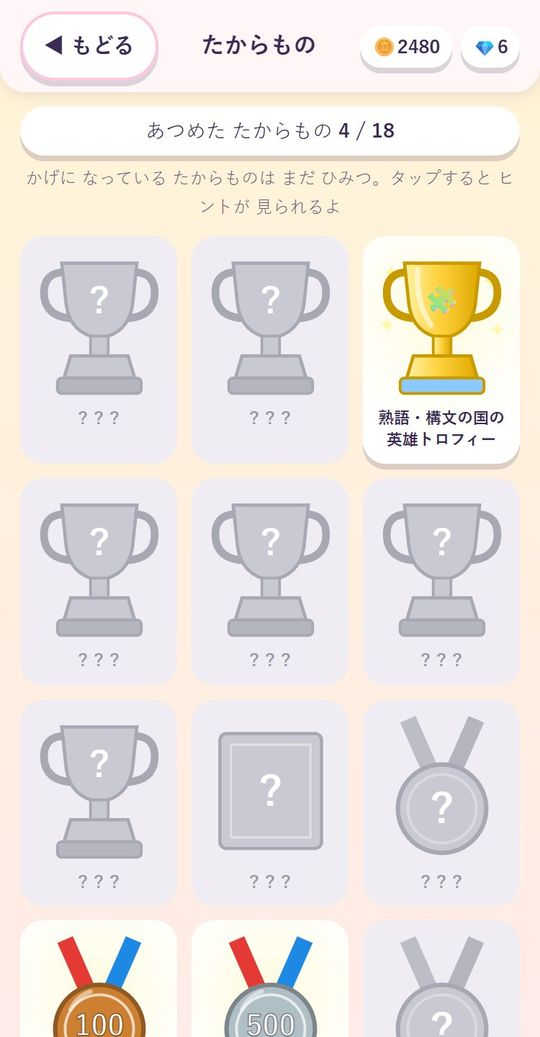
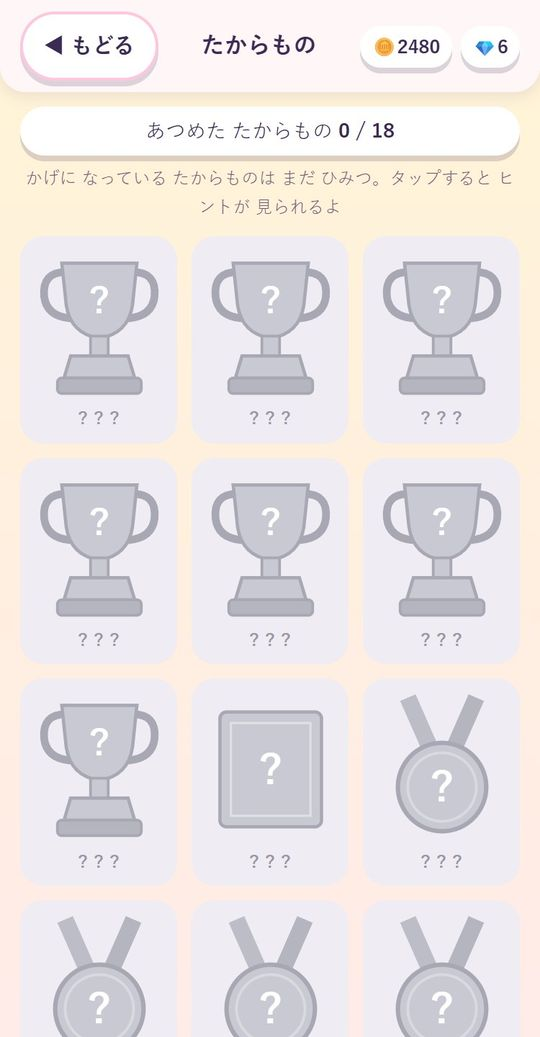
v4: スマホのロックから戻ったあとBGM・効果音・英語の音声が鳴らなくなるのを修正（ぷにまるv30と同じ）・説明書のたからもの詳細を非公開に・デバッグの音を最初からオンに

diff --git a/manual/_src/eigoquest-manual.html b/manual/_src/eigoquest-manual.html
@@ -230,7 +230,7 @@ footer { margin-top: 48px; text-align: center; color: var(--ink-soft); font-size
           <li><span class="n y">9</span><span><b>ずかん</b>：あつめた カード・そざい。</span></li>
           <li><span class="n y">10</span><span><b>ミッション</b>：まいにちの おだい。</span></li>
           <li><span class="n y">11</span><span><b>セーブ</b>：きろくを のこす（ふだんは じどうで セーブされるよ）。</span></li>
-          <li><span class="n y">12</span><span><b>🏆 たからもの</b>（いちばん下の 金色の ボタン）：あつめた トロフィーや メダルを 見る。</span></li>
+          <li><span class="n y">12</span><span><b>🏆 たからもの</b>（いちばん下の 金色の ボタン）：あつめた たからものを 見る。</span></li>
         </ol>
         <div class="tip">どの 画面でも、左上の <span class="tap">◀ もどる</span> で 1つ まえに もどれるよ。画面を 下に スクロールしても、もどるボタンは ずっと 上に あるよ。</div>
       </div>
@@ -581,35 +581,23 @@ footer { margin-top: 48px; text-align: center; color: var(--ink-soft); font-size
 
   <!-- ===== 12 たからもの ===== -->
   <section class="chapter" id="takara">
-    <div class="chead"><span class="no">12</span><div><h2>たからもの</h2><p>がんばった きねんの トロフィー・メダル・表彰状</p></div></div>
-    <div class="gallery">
-      <div class="g">
-        <div class="phone"><img src="img/36_treasures.jpg" alt="たからものの 一覧。まだの ものは 灰色の かげに なっている" width="750" height="1440" loading="lazy"></div>
-        <h4>たからものの へや</h4>
-        <p>ホームの <span class="tap">🏆 たからもの</span> で 見られるよ。まだ もらっていない ものは <b>灰色の かげ</b>。タップすると ヒントが 出るよ。</p>
+    <div class="chead"><span class="no">12</span><div><h2>たからもの</h2><p>がんばった きねんの たからものが あるよ</p></div></div>
+    <div class="row">
+      <div class="shot">
+        <div class="phone"><img src="img/36_treasures.jpg" alt="たからものの へや。まだ もらっていない ものは 灰色の かげ" width="750" height="1440" loading="lazy"></div>
+        <p class="cap">たからものの へや</p>
       </div>
-      <div class="g">
-        <div class="phone"><img src="img/37_trophy.jpg" alt="もらった トロフィーを 大きく 見た ところ" width="750" height="1440" loading="lazy"></div>
-        <h4>大きく 見る</h4>
-        <p>もらった たからものを タップすると、大きな 絵と <b>もらった日</b> が 見られるよ。<span class="tap">◀ たからものに もどる</span> で もとの 画面へ。</p>
-      </div>
-      <div class="g">
-        <div class="phone"><img src="img/38_cert.jpg" alt="全世界の 英雄 表彰状" width="750" height="1440" loading="lazy"></div>
-        <h4>さいごの たからもの</h4>
-        <p>5つの 国を ぜんぶ すくって、しんの まおうを たおすと、<b>全世界の 英雄トロフィー</b>と <b>表彰状</b> が もらえるよ！</p>
+      <div class="txt">
+        <p>ホームの いちばん下の <span class="tap">🏆 たからもの</span> で 見られるよ。</p>
+        <p>ぼうけんで がんばると、ときどき たからものが もらえるよ。<b>なにを したら もらえるかは ひみつ！</b></p>
+        <ol class="legend">
+          <li><span class="n">1</span><span>まだ もらっていない ものは <b>灰色の かげ</b>。タップすると ちょっとだけ ヒントが 見られるよ。</span></li>
+          <li><span class="n">2</span><span>もらった たからものは 色が ついて かがやくよ。タップすると 大きく 見られて、<b>もらった日</b> も わかるよ。</span></li>
+          <li><span class="n">3</span><span><span class="tap">◀ たからものに もどる</span> で もとの 画面に もどれるよ。</span></li>
+        </ol>
+        <div class="tip star">ぜんぶ あつめられるかな？</div>
       </div>
     </div>
-    <div class="tbl" style="margin-top:22px"><table>
-      <tr><th>たからもの</th><th>もらえる とき</th></tr>
-      <tr><td>🏆 ○○の国の 英雄トロフィー（5こ）</td><td>その 国の 章を ぜんぶ クリア</td></tr>
-      <tr><td>🏆 まおう たいじ トロフィー</td><td>まおうを たおす</td></tr>
-      <tr><td>🏆 全世界の 英雄トロフィー・📜 表彰状</td><td>5つの 国を ぜんぶ クリアして、しんの まおうを たおす</td></tr>
-      <tr><td>🏅 正解 メダル（100・500・1000・3000問）</td><td>問題に ぜんぶで その数 正解</td></tr>
-      <tr><td>🏅 スペル名人 メダル</td><td>スペル道場を ぜんぶ クリア</td></tr>
-      <tr><td>🏅 キラカード 100まい メダル</td><td>★5の カードを 100まい</td></tr>
-      <tr><td>🏅 なかま 20しゅるい メダル／🏆 コンプリート トロフィー</td><td>なかまずかんを 20しゅるい／ぜんぶ</td></tr>
-      <tr><td>🏅 7日・30日 れんぞく メダル</td><td>まいにち つづけて あそぶ</td></tr>
-    </table></div>
   </section>
 
   <!-- ===== 13 せってい ===== -->
@@ -718,7 +706,7 @@ footer { margin-top: 48px; text-align: center; color: var(--ink-soft); font-size
       </div>
       <div class="pc">
         <h3>🏆 たからもの（記念）</h3>
-        <p>国ごとの全クリア（英雄トロフィー）、まおう討伐、全世界の英雄トロフィーと表彰状、正解数（100・500・1000・3000問）、スペル道場全クリア、キラカード100枚、なかま収集、連続ログイン（7日・30日）で記念品がもらえます。ホームの「🏆 たからもの」で、もらった日と一緒に見られます。</p>
+        <p>がんばりに応じて、記念のたからものがもらえます。ホームの「🏆 たからもの」で、もらった日と一緒に見られます。何をするともらえるかは、お子さんの楽しみのため説明書では伏せています。</p>
       </div>
       <div class="pc">
         <h3>⏱ 遊び方の目安</h3>

diff --git a/manual/kids.html b/manual/kids.html
@@ -252,7 +252,7 @@ section, header, nav.toc, .pc, .qa { scroll-margin-top: 84px; }
           <li><span class="n y">9</span><span><b>ずかん</b>：あつめた カード・そざい。</span></li>
           <li><span class="n y">10</span><span><b>ミッション</b>：まいにちの おだい。</span></li>
           <li><span class="n y">11</span><span><b>セーブ</b>：きろくを のこす（ふだんは じどうで セーブされるよ）。</span></li>
-          <li><span class="n y">12</span><span><b>🏆 たからもの</b>（いちばん下の 金色の ボタン）：あつめた トロフィーや メダルを 見る。</span></li>
+          <li><span class="n y">12</span><span><b>🏆 たからもの</b>（いちばん下の 金色の ボタン）：あつめた たからものを 見る。</span></li>
         </ol>
         <div class="tip">どの 画面でも、左上の <span class="tap">◀ もどる</span> で 1つ まえに もどれるよ。画面を 下に スクロールしても、もどるボタンは ずっと 上に あるよ。</div>
       </div>
@@ -603,35 +603,23 @@ section, header, nav.toc, .pc, .qa { scroll-margin-top: 84px; }
 
   <!-- ===== 12 たからもの ===== -->
   <section class="chapter" id="takara">
-    <div class="chead"><span class="no">12</span><div><h2>たからもの</h2><p>がんばった きねんの トロフィー・メダル・表彰状</p></div></div>
-    <div class="gallery">
-      <div class="g">
-        <div class="phone"><img src="img/36_treasures.jpg" alt="たからものの 一覧。まだの ものは 灰色の かげに なっている" width="750" height="1440" loading="lazy"></div>
-        <h4>たからものの へや</h4>
-        <p>ホームの <span class="tap">🏆 たからもの</span> で 見られるよ。まだ もらっていない ものは <b>灰色の かげ</b>。タップすると ヒントが 出るよ。</p>
+    <div class="chead"><span class="no">12</span><div><h2>たからもの</h2><p>がんばった きねんの たからものが あるよ</p></div></div>
+    <div class="row">
+      <div class="shot">
+        <div class="phone"><img src="img/36_treasures.jpg" alt="たからものの へや。まだ もらっていない ものは 灰色の かげ" width="750" height="1440" loading="lazy"></div>
+        <p class="cap">たからものの へや</p>
       </div>
-      <div class="g">
-        <div class="phone"><img src="img/37_trophy.jpg" alt="もらった トロフィーを 大きく 見た ところ" width="750" height="1440" loading="lazy"></div>
-        <h4>大きく 見る</h4>
-        <p>もらった たからものを タップすると、大きな 絵と <b>もらった日</b> が 見られるよ。<span class="tap">◀ たからものに もどる</span> で もとの 画面へ。</p>
-      </div>
-      <div class="g">
-        <div class="phone"><img src="img/38_cert.jpg" alt="全世界の 英雄 表彰状" width="750" height="1440" loading="lazy"></div>
-        <h4>さいごの たからもの</h4>
-        <p>5つの 国を ぜんぶ すくって、しんの まおうを たおすと、<b>全世界の 英雄トロフィー</b>と <b>表彰状</b> が もらえるよ！</p>
+      <div class="txt">
+        <p>ホームの いちばん下の <span class="tap">🏆 たからもの</span> で 見られるよ。</p>
+        <p>ぼうけんで がんばると、ときどき たからものが もらえるよ。<b>なにを したら もらえるかは ひみつ！</b></p>
+        <ol class="legend">
+          <li><span class="n">1</span><span>まだ もらっていない ものは <b>灰色の かげ</b>。タップすると ちょっとだけ ヒントが 見られるよ。</span></li>
+          <li><span class="n">2</span><span>もらった たからものは 色が ついて かがやくよ。タップすると 大きく 見られて、<b>もらった日</b> も わかるよ。</span></li>
+          <li><span class="n">3</span><span><span class="tap">◀ たからものに もどる</span> で もとの 画面に もどれるよ。</span></li>
+        </ol>
+        <div class="tip star">ぜんぶ あつめられるかな？</div>
       </div>
     </div>
-    <div class="tbl" style="margin-top:22px"><table>
-      <tr><th>たからもの</th><th>もらえる とき</th></tr>
-      <tr><td>🏆 ○○の国の 英雄トロフィー（5こ）</td><td>その 国の 章を ぜんぶ クリア</td></tr>
-      <tr><td>🏆 まおう たいじ トロフィー</td><td>まおうを たおす</td></tr>
-      <tr><td>🏆 全世界の 英雄トロフィー・📜 表彰状</td><td>5つの 国を ぜんぶ クリアして、しんの まおうを たおす</td></tr>
-      <tr><td>🏅 正解 メダル（100・500・1000・3000問）</td><td>問題に ぜんぶで その数 正解</td></tr>
-      <tr><td>🏅 スペル名人 メダル</td><td>スペル道場を ぜんぶ クリア</td></tr>
-      <tr><td>🏅 キラカード 100まい メダル</td><td>★5の カードを 100まい</td></tr>
-      <tr><td>🏅 なかま 20しゅるい メダル／🏆 コンプリート トロフィー</td><td>なかまずかんを 20しゅるい／ぜんぶ</td></tr>
-      <tr><td>🏅 7日・30日 れんぞく メダル</td><td>まいにち つづけて あそぶ</td></tr>
-    </table></div>
   </section>
 
   <!-- ===== 13 せってい ===== -->

diff --git a/music.js b/music.js
@@ -206,7 +206,7 @@ const BGM = (() => {
     if ((cur === name && src) || want === name) return;
     try {
       ctxReady();
-      if (AC.state === "suspended") AC.resume();
+      if (AC.state !== "running") AC.resume().catch(() => {});
       want = name;
       render(name).then((buf) => {
         if (want !== name || !enabled()) return;
@@ -244,13 +244,44 @@ const BGM = (() => {
     ctx: () => ctxReady(),
     // 英語を 流す あいだは BGMを 小さくする
     duck(on) { try { if (gain && AC) gain.gain.setTargetAtTime(on ? 0.12 : 0.8, AC.currentTime, 0.12); } catch (e) { /* 無視 */ } },
-    // 画面に もどったときに 再開
-    resume() { if (!enabled()) return; if (AC && AC.state === "suspended") AC.resume(); if (!cur && !want) auto(lastCls); },
-    pause() { if (AC && AC.state === "running") AC.suspend().catch(() => {}); },
+    // 画面に もどったときに 再開（gesture：タッチした とき）
+    resume(gesture) {
+      if (!AC) { if (enabled()) auto(lastCls); return; }
+      // iPhoneは ロックや 電話の あと、音の しくみが「とまった まま」に なることが ある。
+      // しばらく かくれていた あとの さいしょの タッチでは、音の しくみを 作りなおして 曲を かけなおす
+      if (gesture && needReset) { needReset = false; renew(); return; }
+      if (AC.state !== "running") {
+        AC.resume().then(() => { if (enabled() && !cur && !want) auto(lastCls); }).catch(() => { needReset = true; });
+        if (!gesture) return;
+      }
+      if (enabled() && !cur && !want) auto(lastCls);
+    },
+    pause() { hiddenAt = Date.now(); if (AC && AC.state === "running") AC.suspend().catch(() => {}); },
+    markReset() { needReset = true; },
   };
+  // 音の しくみ（AudioContext）を 作りなおす。作った 曲の 音や 英語の 音声は そのまま つかえる
+  function renew() {
+    const was = forced ? cur || want : "";
+    stopNow();
+    try { if (AC) AC.close().catch(() => {}); } catch (e) { /* 無視 */ }
+    AC = null; ctxReady();
+    if (AC.state !== "running") AC.resume().catch(() => {});
+    if (was) play(was); else if (enabled()) auto(lastCls);
+  }
 })();
 
 // ほかの アプリに うつったら 止める／もどったら 再開
-document.addEventListener("visibilitychange", () => { if (document.visibilityState === "hidden") BGM.pause(); else BGM.resume(); });
-// さいしょの タッチで 音を 出せる じょうたいに する（iPhoneは タッチの あとしか 鳴らせない）
-document.addEventListener("pointerdown", () => { if (S && S.bgm) BGM.resume(); }, { passive: true });
+let hiddenAt = 0, needReset = false;
+document.addEventListener("visibilitychange", () => {
+  if (document.visibilityState === "hidden") { if (typeof AUD !== "undefined") AUD.stop(); BGM.pause(); }
+  else {
+    // 10秒より 長く かくれていたら（ロックなど）、つぎの タッチで 音の しくみを 作りなおす
+    if (hiddenAt && Date.now() - hiddenAt > 10000) BGM.markReset();
+    BGM.resume(false);
+  }
+});
+window.addEventListener("pageshow", () => BGM.resume(false));
+// タッチで 音を 出せる じょうたいに する（iPhoneは タッチの あとしか 鳴らせない）
+const bgmTouch = () => { if (S && (S.bgm || S.sound)) BGM.resume(true); };
+document.addEventListener("pointerdown", bgmTouch, { passive: true });
+document.addEventListener("touchend", bgmTouch, { passive: true });

diff --git a/dev-jxwyuh58fb/debug.js b/dev-jxwyuh58fb/debug.js
@@ -60,6 +60,12 @@
           <button onclick="dbg.heal()">体力 ぜんかいふく</button>
           <button onclick="dbg.auto()">自動プレイ（全問正解）</button>
         </div>
+        <h3>音（いまの ぼうけんのしょの せってい）</h3>
+        <div class="dgrid">
+          <button class="${S && S.sound ? "on" : ""}" onclick="dbg.snd()">🔔 効果音：${S && S.sound ? "オン" : "オフ"}</button>
+          <button class="${S && S.bgm ? "on" : ""}" onclick="dbg.bgmOn()">🎵 BGM：${S && S.bgm ? "オン" : "オフ"}</button>
+        </div>
+        <p class="small">※ 音は さいしょ オフです。iPhoneの マナーモード中は（イヤホンが なければ）鳴りません。</p>
         <h3>BGM を きく（せっていが オフでも 鳴るよ）</h3>
         <div class="dgrid">
           ${BGM.songs().map((x) => `<button class="${BGM.previewing() === x.id ? "on" : ""}" onclick="dbg.bgm('${x.id}')">🎵 ${x.name}</button>`).join("")}
@@ -121,6 +127,8 @@
       if (!S.eq.acc) S.eq.acc = "x_none";
       done(`アクセサリーを ${acc.length}こ ぜんぶ そろえたよ`);
     },
+    snd() { if (!needS()) return; S.sound = !S.sound; save(); closeModal(); openDebug(); snd("ok"); },
+    bgmOn() { if (!needS()) return; S.bgm = !S.bgm; save(); BGM.refresh(); closeModal(); openDebug(); },
     bgm(id) { BGM.preview(id); closeModal(); openDebug(); toast(id ? "🎵 さいせい中（まわりの 音に 注意）" : "BGMを ふつうに もどしたよ"); },
     toggleOpen() { window.PQ_OPEN = !window.PQ_OPEN; closeModal(); openDebug(); },
     toggleZukan() { window.PQ_ZUKANALL = !window.PQ_ZUKANALL; ss("pq_debug_zukan", window.PQ_ZUKANALL ? "1" : "0"); closeModal(); openDebug(); },

diff --git a/manual/_src/shoot.js b/manual/_src/shoot.js
@@ -72,7 +72,7 @@ const SHOTS = [
   ["33_costume", `RESTORE(); S.eq={weapon:"w_heart",armor:"a_knight",hat:"h_none",acc:"x_dragon"}; equip()`],
   ["34_shopacc", `RESTORE(); S.tierClear={1:true,2:true,3:true}; shop("acc")`],
   ["35_dressup", `RESTORE(); const cs=[["w_heart","a_bear","h_none","x_cloud"],["w_tuna","a_swim","h_glasses","x_whale"],["w_niji","a_knight","h_none","x_dragon"],["w_mugen","a_robot","h_none","x_rocket"],["w_h1","a_ninja2","h_none","x_horse"],["w_shine","a_bolt","h_crown","x_none"],["w_starwand","a_starry","h_tiara","x_rainbow"],["w_harisen","a_box","h_afro","x_tear"],["w_stick","a_cloth","h_party","x_heart"]]; setScreen('<div style="display:grid;grid-template-columns:repeat(3,1fr);gap:6px;padding:18px 8px;background:#fff7fb;min-height:720px">'+cs.map(c=>'<div style="text-align:center">'+charSVG({weapon:c[0],armor:c[1],hat:c[2],acc:c[3]},S.color)+'</div>').join("")+'</div>',"bg-home")`],
-  ["36_treasures", `RESTORE(); S.stats.cor=620; S.login.streak=8; worldChapters("math").forEach(c=>S.stClear[c.id+"-4"]=3); checkTreasures(); Object.keys(S.treasures).forEach(k=>S.treasureSeen[k]=1); treasures()`],
+  ["36_treasures", `RESTORE(); S.stats.cor=0; S.login.streak=1; S.treasures={}; S.treasureSeen={}; treasures()`],
   ["37_trophy", `RESTORE(); worldChapters("math").forEach(c=>S.stClear[c.id+"-4"]=3); checkTreasures(); treasures(); treasureDetail(TREASURES.findIndex(t=>t.id==="hero_math"))`, 900],
   ["38_cert", `RESTORE(); S.treasures=Object.assign(S.treasures||{}, {cert:Date.now()}); treasures(); treasureDetail(TREASURES.findIndex(t=>t.id==="cert"))`, 900],
   ["27_hatch", `RESTORE(); S.eggs[0].p=20; nakama("egg"); hatchEgg(0)`, 2800],

diff --git a/app.js b/app.js
@@ -28,7 +28,7 @@ const wait = (ms) => new Promise((r) => setTimeout(r, ms));
 // ---------- セーブデータ ----------
 function newSave() {
   return {
-    v: 1, name: "", color: BODY_COLORS[0], coins: 50, gems: 0, sound: false, bgm: false, aud: 1, mats: {},
+    v: 1, name: "", color: BODY_COLORS[0], coins: 50, gems: 0, sound: !!PQ_DEBUG, bgm: !!PQ_DEBUG, aud: 1, mats: {}, // 音は さいしょ オフ（デバッグでは オン）
     owned: ["w_stick", "a_cloth", "h_none", "x_none"], eq: { weapon: "w_stick", armor: "a_cloth", hat: "h_none", acc: "x_none" },
     cards: {}, cleared: {}, stClear: {}, tierClear: {}, stats: { tot: 0, cor: 0, days: {} },
     eggs: [], pets: [], partner: 0, petDex: {}, petUid: 0,
@@ -146,7 +146,7 @@ function snd(type) {
   if (S && !S.sound) return;
   try {
     if (!AC) AC = new (window.AudioContext || window.webkitAudioContext)();
-    if (AC.state === "suspended") AC.resume();
+    if (AC.state !== "running") AC.resume().catch(() => {}); // ロックの あとの「interrupted」も もどす
     // 正解の「ピンポン！」（チャイムのような 2つの 音）
     if (type === "pinpon") {
       const t0 = AC.currentTime;

diff --git a/manual/parents.html b/manual/parents.html
@@ -248,7 +248,7 @@ section, header, nav.toc, .pc, .qa { scroll-margin-top: 84px; }
       </div>
       <div class="pc" id="p8">
         <h3>🏆 たからもの（記念）</h3>
-        <p>国ごとの全クリア（英雄トロフィー）、まおう討伐、全世界の英雄トロフィーと表彰状、正解数（100・500・1000・3000問）、スペル道場全クリア、キラカード100枚、なかま収集、連続ログイン（7日・30日）で記念品がもらえます。ホームの「🏆 たからもの」で、もらった日と一緒に見られます。</p>
+        <p>がんばりに応じて、記念のたからものがもらえます。ホームの「🏆 たからもの」で、もらった日と一緒に見られます。何をするともらえるかは、お子さんの楽しみのため説明書では伏せています。</p>
       </div>
       <div class="pc" id="p9">
         <h3>⏱ 遊び方の目安</h3>

diff --git a/sw.js b/sw.js
@@ -2,7 +2,7 @@
 // ※アプリを更新したら VERSION の数字を上げる
 // ぷにまるクエスト（同じ サイト）の 保存とは 名前を わけている
 const PREFIX = "eigo-";
-const VERSION = PREFIX + "v3";
+const VERSION = PREFIX + "v4";
 const FILES = ["./", "index.html", "style.css", "data.js", "world.js", "e_vocab1.js", "e_vocab2.js", "eigo.js", "e_gram.js", "e_idiom.js", "e_listen.js", "e_talk.js", "cloud.js", "pets.js", "music.js", "gear.js", "extra.js", "treasure.js", "app.js", "manifest.webmanifest", "icons/icon-192.png", "icons/apple-touch-icon.png"];
 
 self.addEventListener("install", (e) => {

diff --git a/eigo.js b/eigo.js
@@ -91,7 +91,7 @@ const AUD = (() => {
     stop();
     const my = ++token, ac = BGM.ctx();
     try {
-      if (ac.state === "suspended") await ac.resume();
+      if (ac.state !== "running") await ac.resume().catch(() => {});
       const bufs = await Promise.all(files.map(load));
       if (my !== token) return;
       BGM.duck(true);
